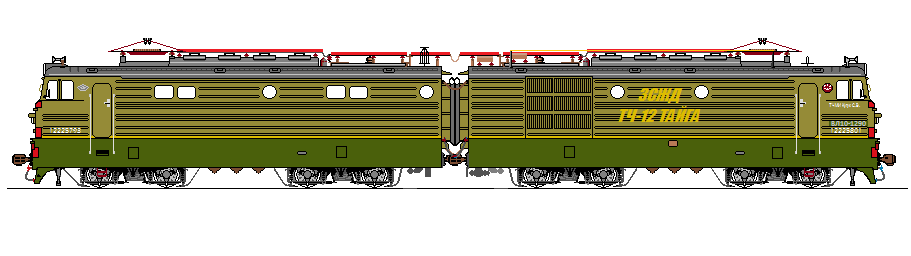
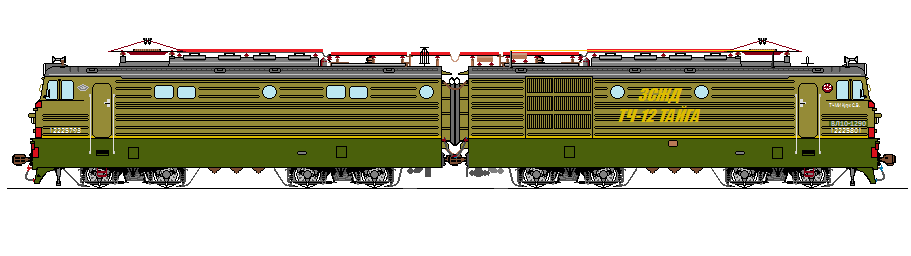
Electric locomotive body VL10-1290 has been added

diff --git a/test.html b/test.html
@@ -6,6 +6,7 @@
 	<link rel="stylesheet" href="style.css" />
 </head>
 <body>
+	<img src="images/locomotives/electric/loco_body/VL10_1290/*" />
 
 	<script defer src="jquery-3.4.1.min.js"></script>
 	<script defer src="code.js"></script>

diff --git a/style.css b/style.css
@@ -1,3 +1,3 @@
 html, body {
-	background-color: #000;
+	background-color: #ADD8E6;
 }
